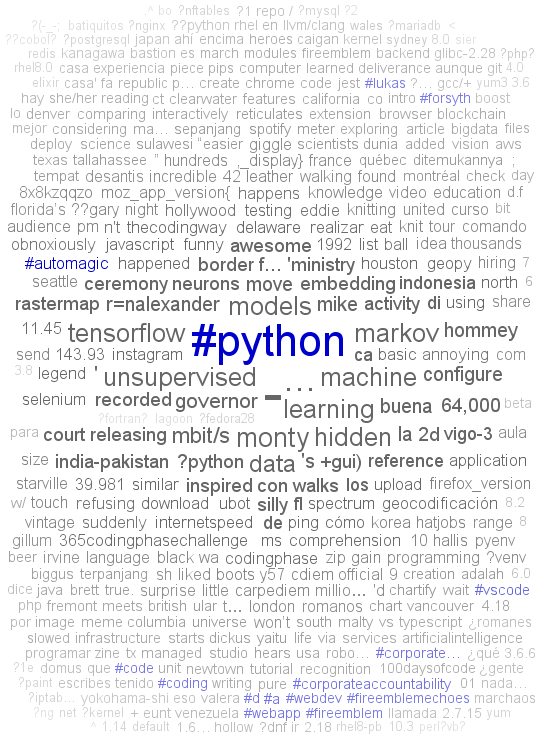
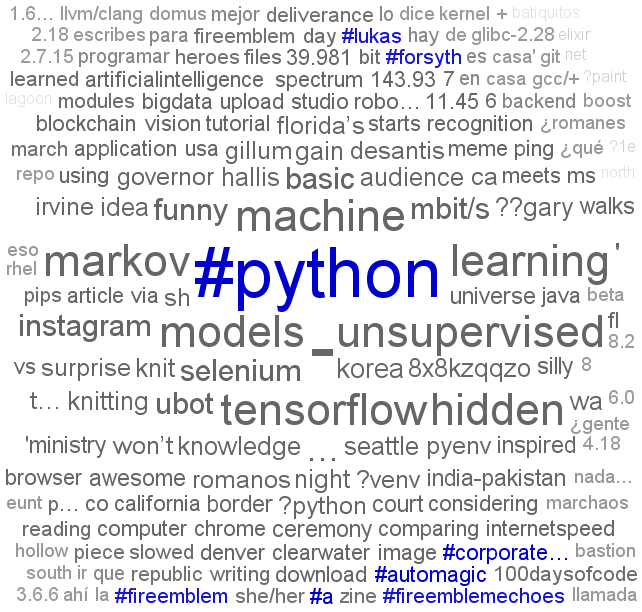
Add files via upload

diff --git a/analise_python.md b/analise_python.md
@@ -1,4 +1,4 @@
-#![ ](https://panda.ime.usp.br/aulasPython/static/aulasPython/_images/python-logo.png "Python")
+#![ ](https://github.com/ggdcdevel/TraballhoR1/blob/master/python-logo.png "Python")
 
 **A linguagem Python**
 
@@ -37,9 +37,19 @@ Após coleta dos twitters, resolvi gravar um banco de dados utilizando nó `Data
 
 **Processando os dados**
 
-Para o processamento e tratamento de textos, iremos usar o termos mais frequentes e exibí-los em uma Nuvem de palavras. Neste processo, o nó `Ponctuation Erasure` remove todos os caracteres de pontuação do meu saco de palavras (linhas obtidas de cada twitter). O `Stop Word Filter` é o responsável por remover todos os termos do documento de entrada que correspondem com termos de uma lista (biblioteca de termos, preposições, no meu caso específico já utilizei a padrão do Knime). Com o `Row Filter`, foi excluído o próprio termo Python apenas para ele não polir a nuvem. O `Case Converter` transformou todos os termos em minúsculo. Por fim, o `Bag of Words Creator` separa em linhas cada um dos termos para a devida ação do nó `TF` que é quem verificar a frequência de cada palavra para que seja montada a nuvem.
+Para o processamento e tratamento de textos, iremos usar o termos mais frequentes e exibí-los em uma Nuvem de palavras. Neste processo, o nó `Ponctuation Erasure` remove todos os caracteres de pontuação do meu saco de palavras (linhas obtidas de cada twitter). 
+O `Stop Word Filter` é o responsável por remover todos os termos do documento de entrada que correspondem com termos de uma lista (biblioteca de termos, preposições, no meu caso específico já utilizei a padrão do Knime). 
+Com o `Row Filter`, foi excluído o próprio termo Python apenas para ele não polir a nuvem. 
+O `Case Converter` transformou todos os termos em minúsculo. 
+Por fim, o `Bag of Words Creator` separa em linhas cada um dos termos para a devida ação do nó `TF` que é quem verificar a frequência de cada palavra para que seja montada a nuvem. 
+Utilizei também o `Role Engine` e o `Color Manager` para alterar um pouco o visual
+
+![ ](https://github.com/ggdcdevel/TraballhoR1/blob/master/tag_nuvem.png "twitter_cloud_process")
+
 
 **Cloud Tag**
+
+Segue a nuvem gerada a partir do processamento.
 
 ![ ](https://github.com/ggdcdevel/TraballhoR1/blob/master/TagCloudTwitter.png "twitter_cloud_tag")
 
